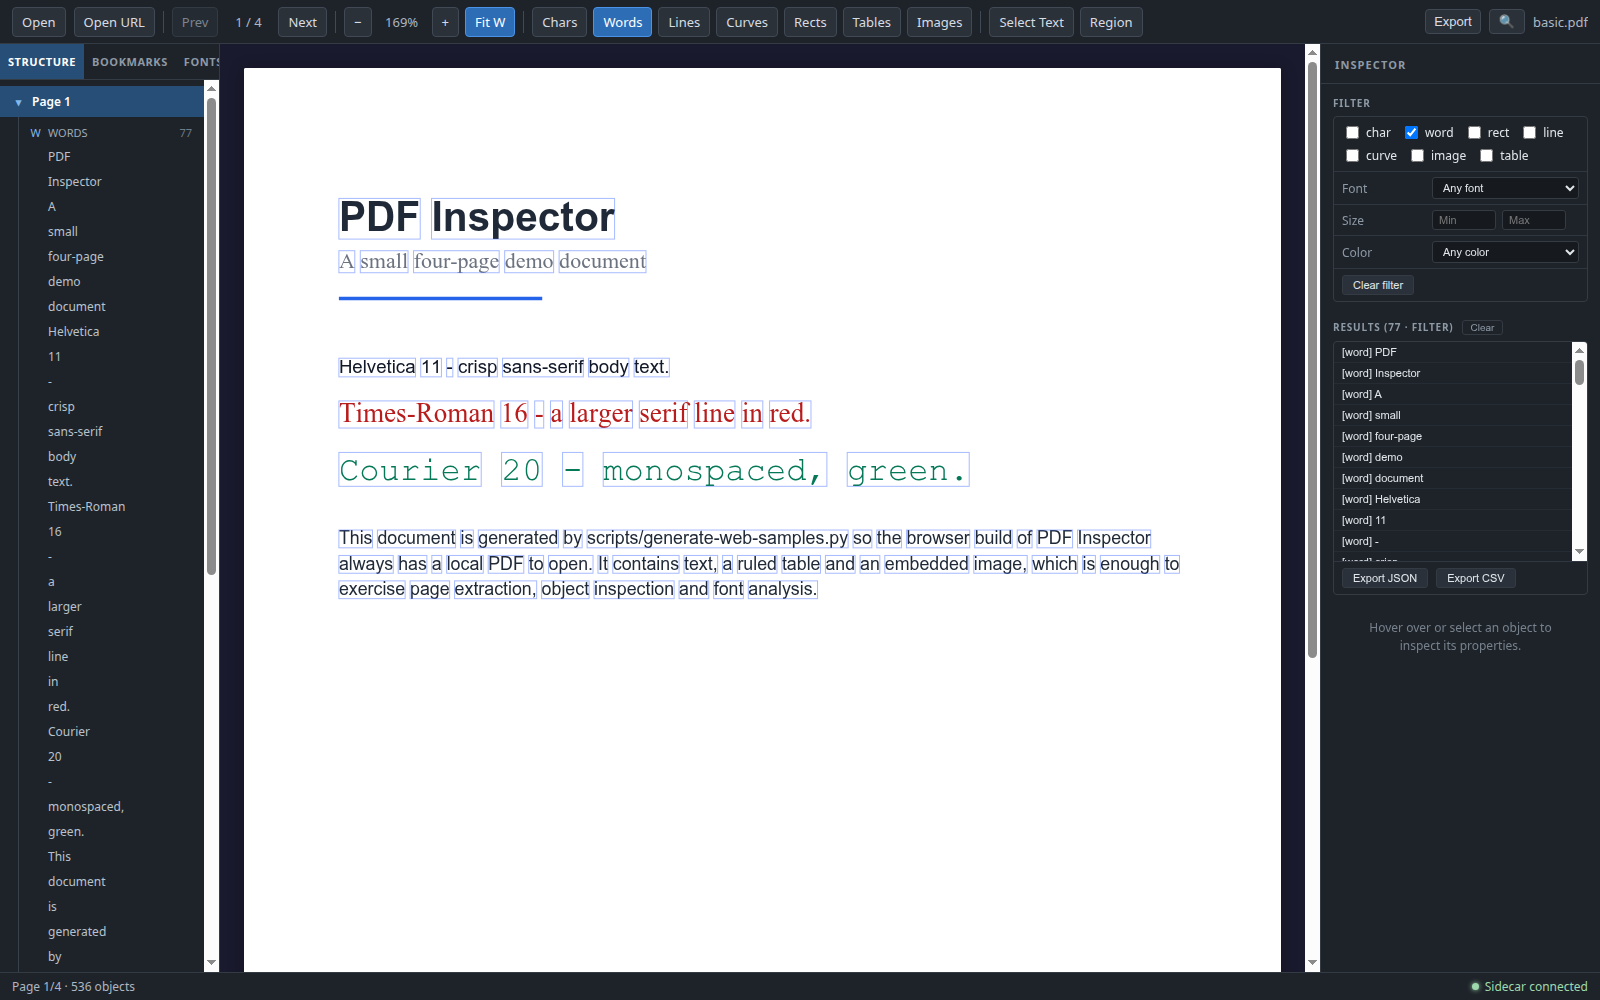
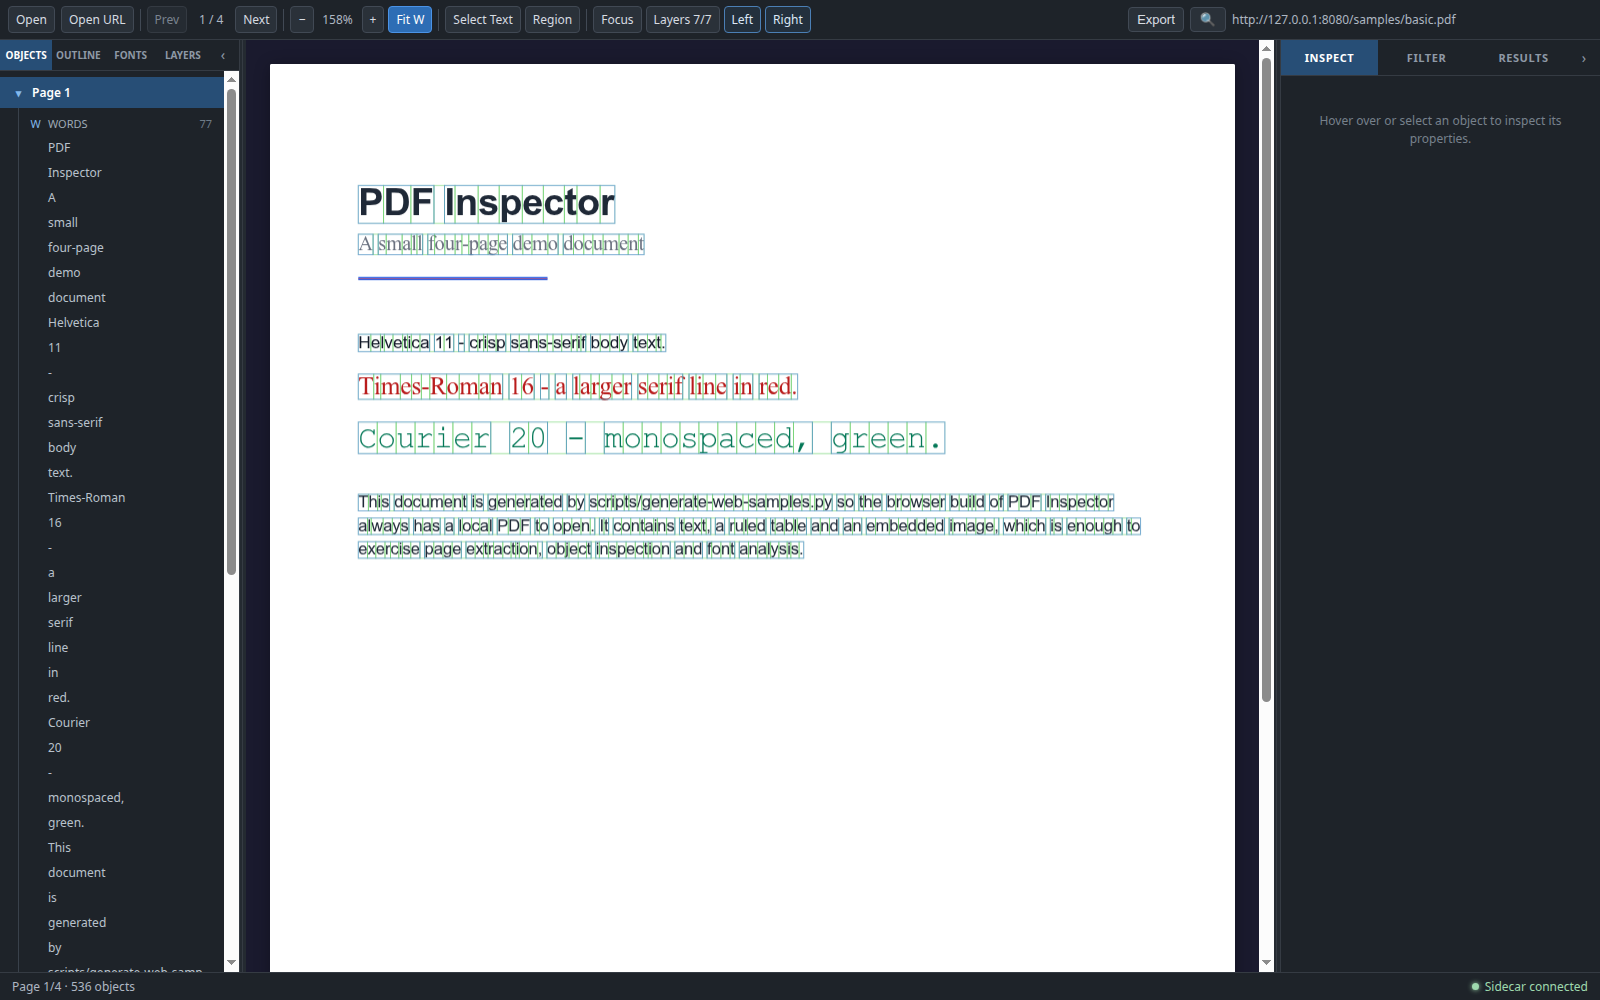
docs: document workspace layout
Describe the resizable/collapsible panes, focus mode, canvas-edge restore
rails, Layers panel, and the Inspector tabs (Inspect/Filter/Results).
Refresh the overview screenshot and add the Layers panel screenshot.

diff --git a/README.md b/README.md
@@ -8,8 +8,9 @@
 
 |  |  |
 | :---: | :---: |
-| ![结构树 + word 过滤叠加层](docs/images/overview.png) | ![对象检查](docs/images/inspector.png) |
+| ![工作区总览：Objects / Outline / Fonts / Layers 标签与可调整面板](docs/images/overview.png) | ![对象检查](docs/images/inspector.png) |
 | ![字体分析](docs/images/fonts.png) | ![URL 打开](docs/images/url-dialog.png) |
+| ![图层面板](docs/images/layers.png) | **Layers**<br>七类对象开关、计数、All/None、Solo 与透明度。 |
 | ![按元素类型导出](docs/images/export-dialog.png) | **按元素类型导出**<br>选择当前页/整档、JSON/CSV 与要包含的元素类型；未勾选的类型不会写入文件。 |
 
 *截图来自 Web 构建；桌面端使用同一套 React UI，界面与功能一致。*
@@ -19,15 +20,24 @@
 ### 渲染与检查
 
 - PDF.js 多页渲染，支持翻页、缩放与适合页面宽度。
-- char / word / line / curve / rect / table / image 七类对象的边界框叠加层，可按类型独立开关。
-- 悬停或点击选中对象，Inspector 面板展示页码、坐标、字体、字号、颜色及原始 JSON；图片对象提供内嵌预览。
+- char / word / line / curve / rect / table / image 七类对象的边界框叠加层，可在 Layers 标签页统一控制可见类型与透明度。
+- 悬停或点击选中对象，Inspector 的 `Inspect` 标签页展示页码、坐标、字体、字号、颜色及原始 JSON；图片对象提供内嵌预览。
 - 文本选择层支持直接选中页面文字。
 
 ### 导航与结构
 
-- 左侧结构树按页展示全部对象，页面节点可折叠/展开。
-- 读取 PDF 书签（outline），点击条目直接跳转到对应页面。
+- 左侧面板包含四个标签页：`Objects`（按页展示全部对象）、`Outline`（PDF 书签）、`Fonts`（字体统计）与 `Layers`（叠加层控制）。
+- `Objects` 标签页的对象树按页展示全部对象，页面节点可折叠/展开。
+- `Outline` 标签页读取 PDF 书签（outline），点击条目直接跳转到对应页面。
 - 当前页码显示与上一页/下一页导航，并实时显示缩放比例。
+
+### 工作区与布局
+
+- 左右面板可通过分隔条拖拽调整宽度，并可折叠；工具栏的 Left / Right 按钮与面板内的折叠按钮保持同步。
+- 面板收起后，画布边缘会出现 `Objects` / `Inspector` 恢复条，点击即可重新打开；专注模式下左上角显示 `Show panels` 恢复按钮。
+- `F` 或工具栏 Focus 进入专注模式，隐藏左右面板、只保留画布；再次按 `F` 或点击 Focus 退出。
+- Inspector 面板分为 `Inspect / Filter / Results` 三个标签页：查看对象属性、组合筛选条件、管理筛选或框选结果并导出子集。
+- 面板宽度、折叠状态、Focus 模式、当前标签页与叠加层透明度会保存在 localStorage，下次启动自动恢复。
 
 ### 搜索与导出
 
@@ -37,9 +47,10 @@
 
 ### 过滤与叠加层
 
-- 按对象类型开关叠加层；按字体、字号、颜色、类型组合筛选对象。
+- 七类对象的开关已从工具栏移入 `Layers` 标签页：每类一行显示当前页对象计数，并提供 All / None 批量开关、Solo 单独查看与 Opacity 透明度滑杆；工具栏的 `Layers n/7` 按钮可直接打开该标签页。
+- 筛选仍在 Inspector → `Filter` 标签页：按字体、字号、颜色与类型组合筛选对象。
 - 拖拽框选区域，支持“相交（intersect）”与“包含（contain）”两种匹配方式。
-- 筛选或框选结果在画布上高亮，并在 Inspector 中列出，可直接导出该子集。
+- 筛选或框选结果显示在 Inspector → `Results` 标签页，并在画布上高亮；可直接导出该子集。
 
 ### 字体分析
 
@@ -64,6 +75,7 @@
 |--------|------|
 | `T` | 切换文本选择模式 |
 | `R` | 切换区域框选模式（与文本选择互斥） |
+| `F` | 切换 Focus 模式（隐藏左右面板） |
 | `Ctrl/Cmd+F` | 打开搜索 |
 | `Ctrl/Cmd+滚轮` | 缩放文档；向上滚放大，向下滚缩小（触控板捏合同样生效） |
 | `Esc` | 清除选中、筛选与框选结果 |
@@ -127,11 +139,12 @@ python scripts/generate-web-samples.py
 ## 使用说明
 
 1. **打开文档**：点击 Open 选择本地 PDF，或点击 Open URL 输入 `http(s)` 地址。
-2. **浏览结构**：在左侧结构树展开/折叠页面节点，或通过书签跳转；也可用工具栏的 Prev/Next 翻页。
-3. **检查对象**：在画布上悬停查看轮廓，点击后在右侧 Inspector 查看坐标、字体、颜色与原始数据。
-4. **筛选对象**：在 Inspector 中按字体/字号/颜色/类型筛选，或切到 `R` 模式拖拽框选区域，再选择相交/包含匹配。
-5. **字体分析**：切换到 Fonts 标签页开始分析，查看进度；点击字体条目跳转到使用页并高亮。
-6. **搜索与导出**：`Ctrl/Cmd+F` 搜索；通过 Export 选择当前页/整档、JSON/CSV 与要包含的元素类型。
+2. **浏览结构**：在左侧 `Objects` 标签页展开/折叠页面节点，或切换到 `Outline` 按书签跳转；也可用工具栏的 Prev/Next 翻页。
+3. **检查对象**：在画布上悬停查看轮廓，点击后在右侧 Inspector 的 `Inspect` 标签页查看坐标、字体、颜色与原始数据。
+4. **筛选对象**：在 Inspector → `Filter` 中按字体/字号/颜色/类型筛选，或切到 `R` 模式拖拽框选区域，再在 `Results` 中选择相交/包含匹配。
+5. **字体分析**：切换到左侧 `Fonts` 标签页开始分析，查看进度；点击字体条目跳转到使用页并高亮。
+6. **控制叠加层**：在左侧 `Layers` 标签页开关七类对象、查看当前页计数、使用 Solo 或调整透明度；`F` 可进入专注模式，隐藏左右面板。
+7. **搜索与导出**：`Ctrl/Cmd+F` 搜索；通过 Export 选择当前页/整档、JSON/CSV 与要包含的元素类型。
 
 ## 架构
 
